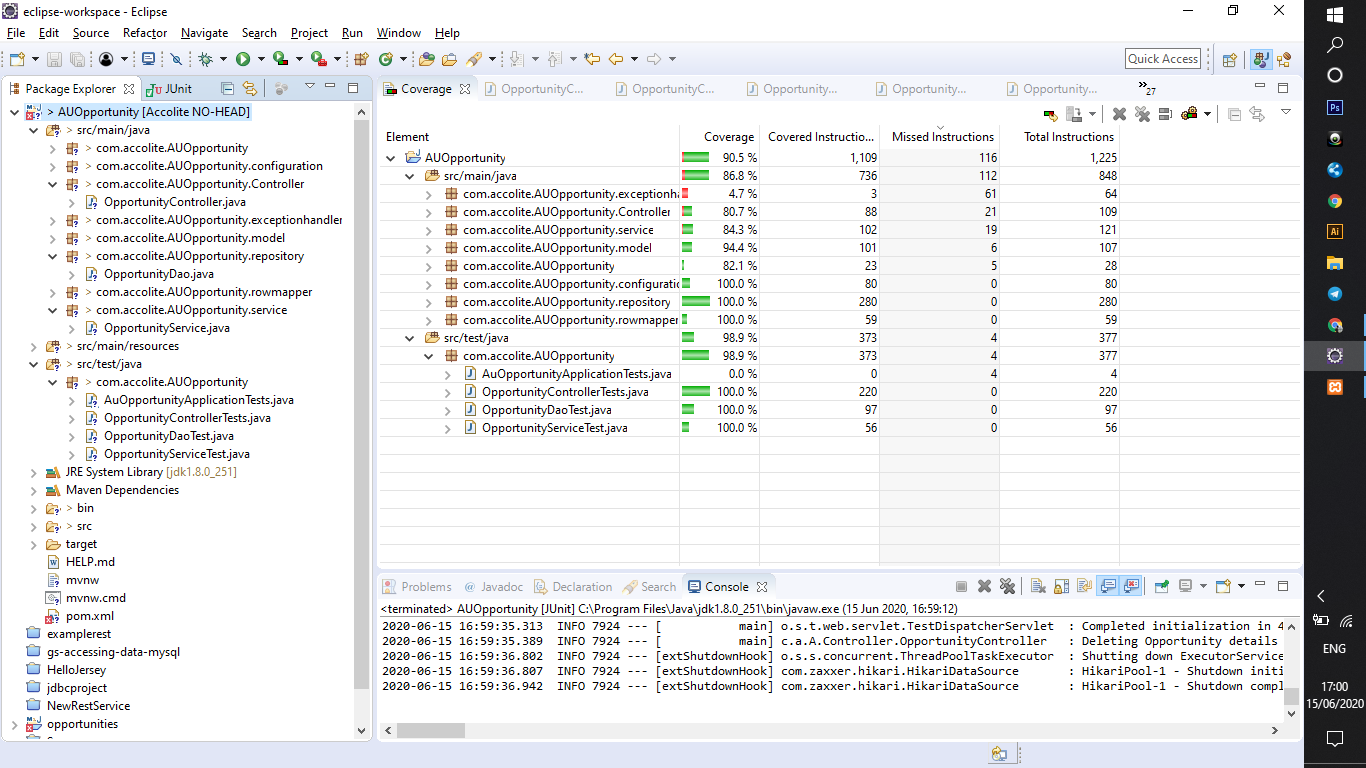
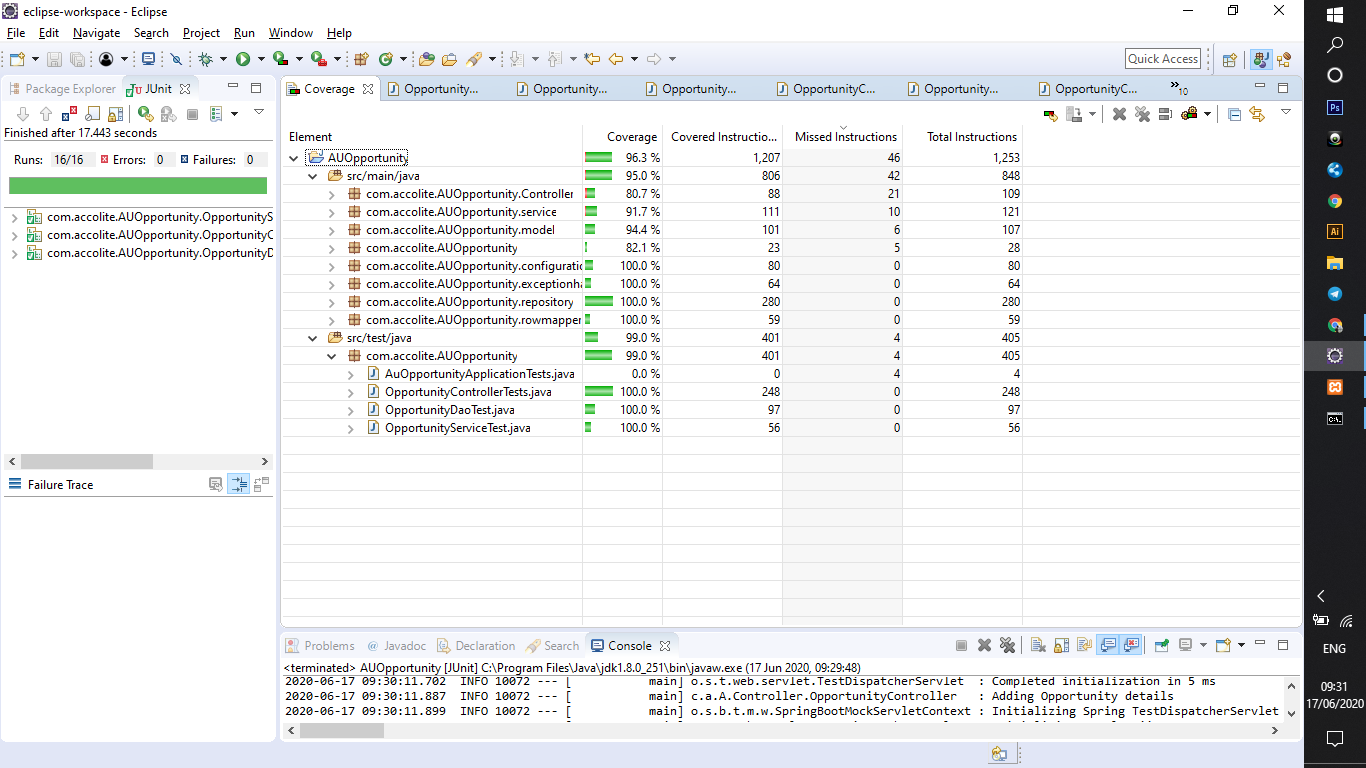
updated springboot testcases & code coverage

diff --git a/Springboot/opportunities/src/test/java/com/accolite/opportunities/OpportunityControllerTests.java b/Springboot/opportunities/src/test/java/com/accolite/opportunities/OpportunityControllerTests.java
@@ -115,4 +115,17 @@ public class OpportunityControllerTests {
 				opc.opportunityInformation("102430502860166805172", "jayaprakash.shanmugam@accoliteindia.com").size());
 	}
 
+	@Test
+	public void deleteOpportunityNotFound_OpportunityIdValue_ReturnsHttpStatus() throws Exception {
+		mockMvc.perform(delete("/deleteopportunity/999").contentType(MediaType.APPLICATION_JSON))
+				.andExpect(status().isNotFound());
+
+	}
+
+	@Test
+	public void getEmptyOpportunity_OpportunityIdValue_ReturnsSingleObject() throws Exception {
+		mockMvc.perform(get("/getopportunityid/999").contentType(MediaType.APPLICATION_JSON))
+				.andExpect(status().isInternalServerError());
+	}
+
 }
